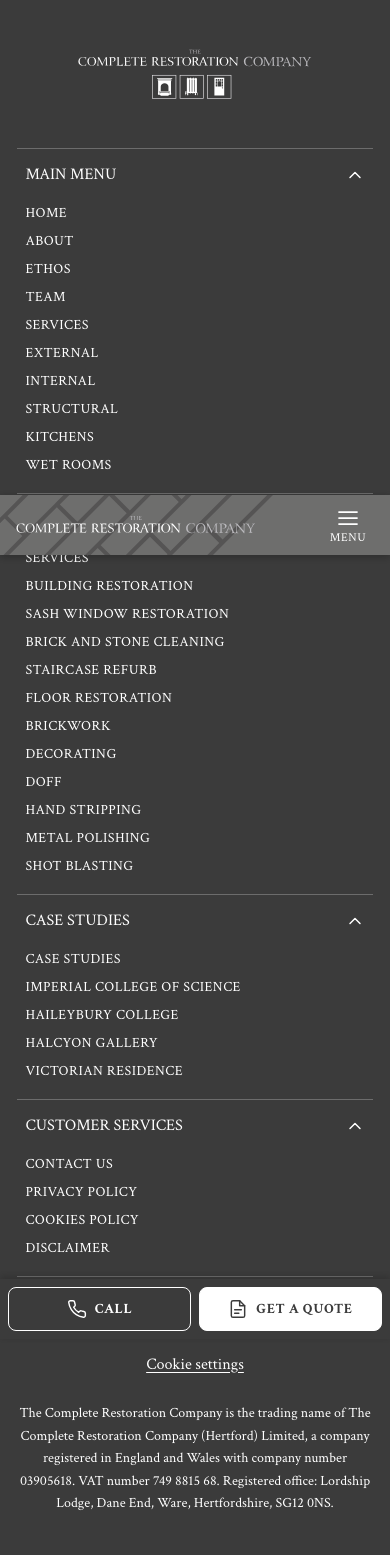
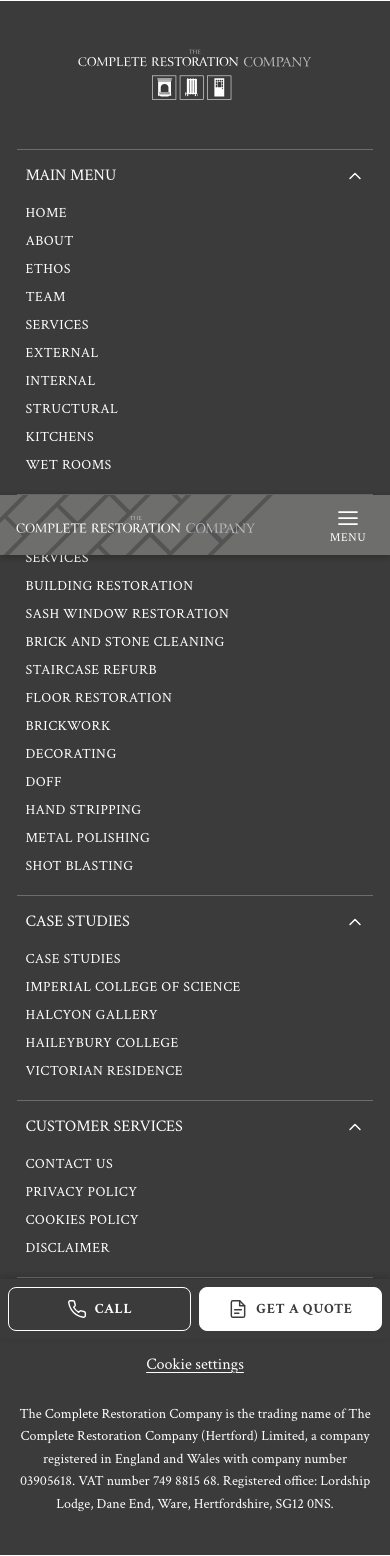
Case studies in a row of four on desktop; footer menu matches page order
/case-studies/ shows its four cards in one row from desktop up, as on the
home page, with one column on phones and two on tablet. The footer Case
studies menu now follows the page order: Imperial, Halcyon, Haileybury,
Victorian Residence.

diff --git a/lib/site.ts b/lib/site.ts
@@ -62,8 +62,8 @@ export const footerMenus: FooterMenu[] = [
     href: '/case-studies/',
     links: [
       { label: 'Imperial College of Science', href: '/case-studies/imperialscience-collage/' },
-      { label: 'Haileybury College', href: '/case-studies/haileybury-collages/' },
       { label: 'Halcyon Gallery', href: '/case-studies/halcyon-gallery/' },
+      { label: 'Haileybury College', href: '/case-studies/haileybury-collages/' },
       { label: 'Victorian Residence', href: '/case-studies/victorian-residence/' },
     ],
   },

diff --git a/components/templates/PageView.tsx b/components/templates/PageView.tsx
@@ -82,7 +82,7 @@ function Body({ page }: { page: Page }) {
         <>
           <Intro html={page.introHtml} tight />
           <div className={styles.container}>
-            <CardGrid cards={page.cards} label={page.title} phoneStyle="captionAlways" nameSuffix="case study" />
+            <CardGrid cards={page.cards} label={page.title} phoneStyle="captionAlways" nameSuffix="case study" wide />
           </div>
         </>
       );

diff --git a/NOTES_FOR_STEVE.md b/NOTES_FOR_STEVE.md
@@ -331,3 +331,6 @@ Checks: gate passed; axe clean on all 47 pages at 320, 390 and 1280px; no sidewa
 1. **Copy change, approved by Steve:** the case study titled "Imperial Science Collage" on the live site is now "Imperial College of Science" everywhere it is shown: the page heading, its browser tab title ("Imperial College of Science - Complete restoration company"), the cards on the home page and `/case-studies/`, the footer menu, and the schema (Article headline and breadcrumb). The URL is unchanged: `/case-studies/imperialscience-collage/`. The fix is applied in `scripts/build-content.mjs` (`fixImperial`) and `lib/site.ts`. No page, title tag or schema contains the old title any more. The Haileybury slug (`haileybury-collages`) is also unchanged.
 2. The footer Case studies menu now lists Imperial College of Science first, then Haileybury College, Halcyon Gallery and Victorian Residence in their existing order. (That menu's order differs from the home slider and `/case-studies/`, where Halcyon Gallery comes before Haileybury College; both are the orders they already had.)
 3. `/case-studies/` uses the full-image caption cards at every screen size, matching the home page, and its links are named "<title> case study" for screen readers in the same way. The page keeps its listing layout: one column on phones, two from tablet and three from desktop, so the fourth card sits on a second row on desktop.
+
+4. `/case-studies/` now shows its four cards in a single row of four from desktop up, matching the home page; one column on phones and two on tablet are unchanged.
+5. The footer Case studies menu now matches the page order exactly: Imperial College of Science, Halcyon Gallery, Haileybury College, Victorian Residence. This replaces the order described in point 2 above.
